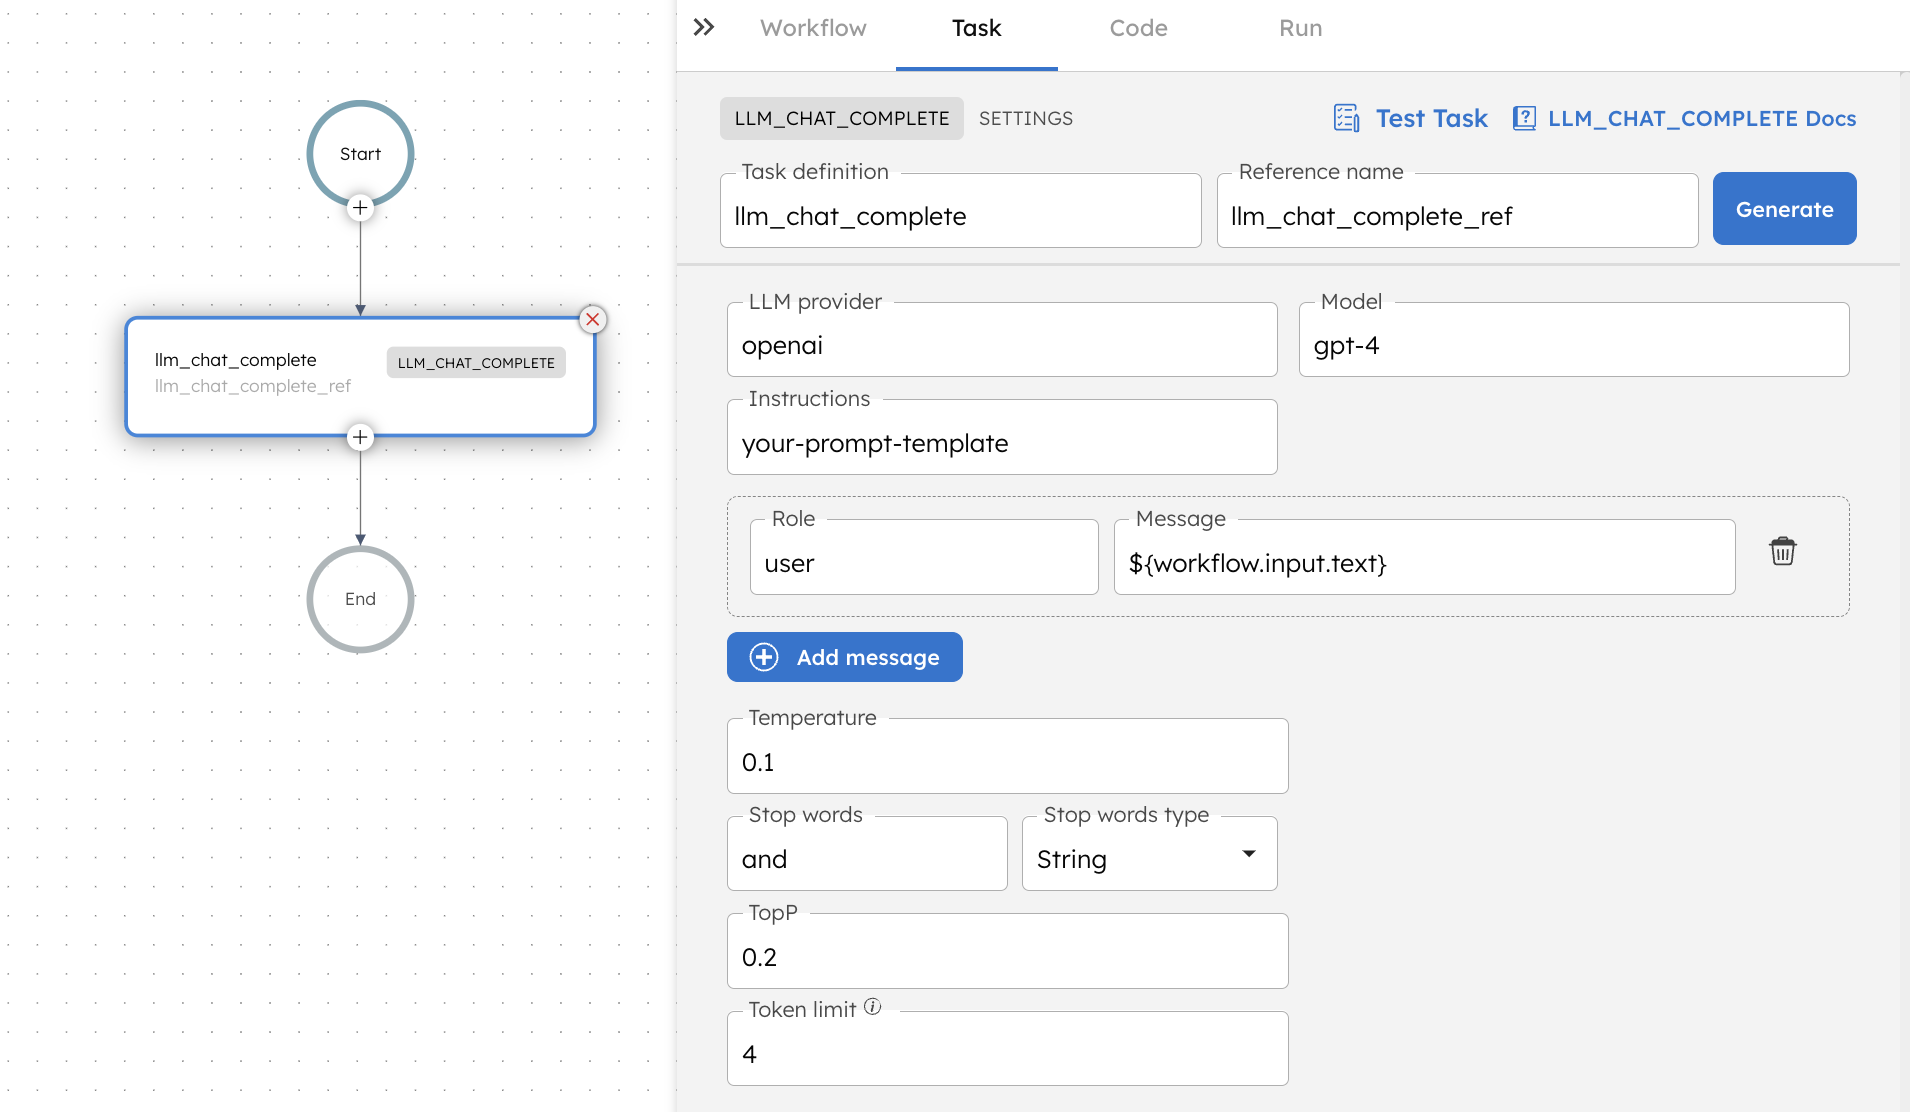
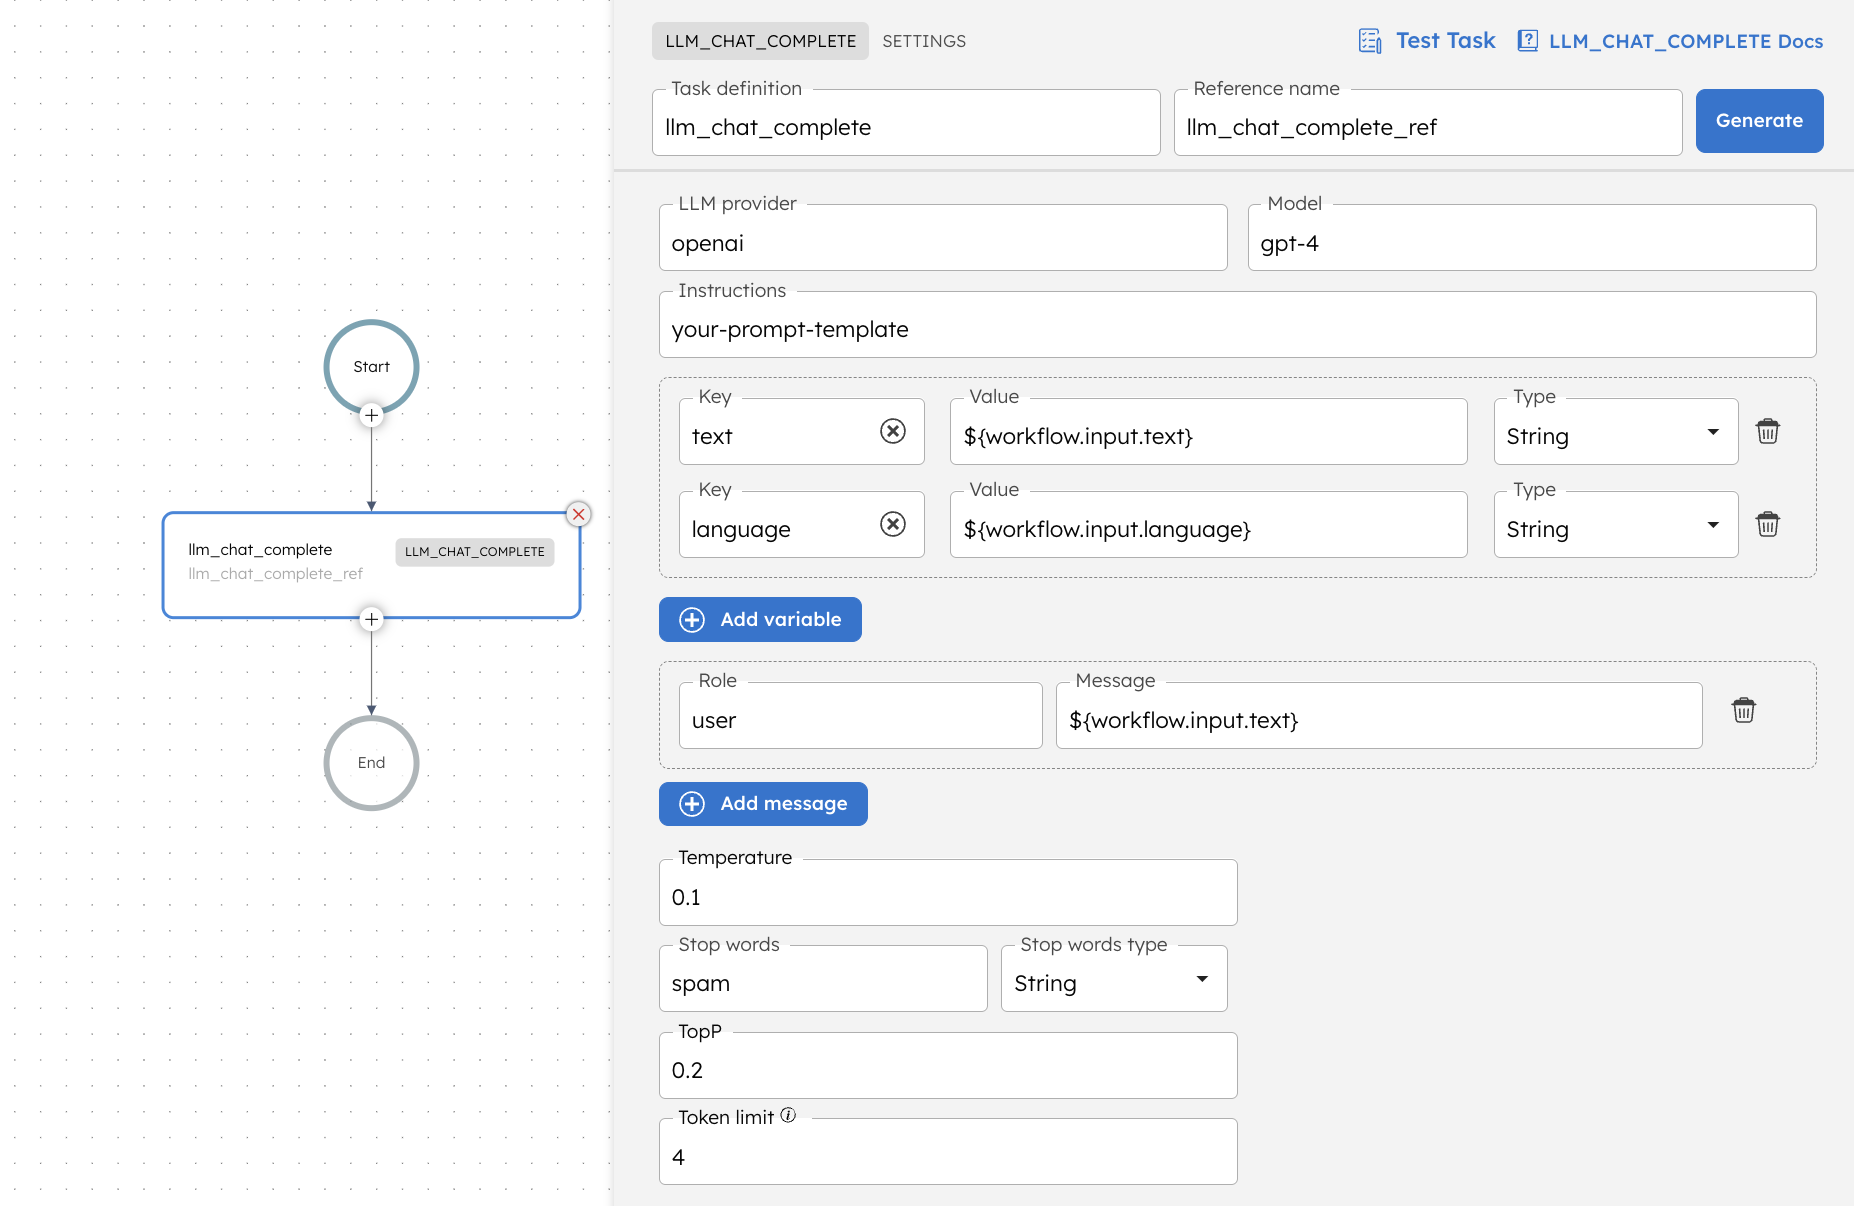
LLM Chat Complete - promptVariables

diff --git a/docs/reference-docs/ai-tasks/llm-chat-complete.md b/docs/reference-docs/ai-tasks/llm-chat-complete.md
@@ -11,7 +11,7 @@ A system task to complete the chat query. It can be used to instruct the model's
 ## Definitions
 
 ```json
-   {
+  {
      "name": "llm_chat_complete",
      "taskReferenceName": "llm_chat_complete_ref",
      "inputParameters": {
@@ -27,7 +27,11 @@ A system task to complete the chat query. It can be used to instruct the model's
        "temperature": 0.1,
        "topP": 0.2,
        "maxTokens": 4,
-       "stopWords": "and"
+       "stopWords": "spam",
+       "promptVariables": {
+         "text": "${workflow.input.text}",
+         "language": "${workflow.input.language}"
+       }
      },
      "type": "LLM_CHAT_COMPLETE"
    }
@@ -40,11 +44,13 @@ A system task to complete the chat query. It can be used to instruct the model's
 | llmProvider | Choose the required LLM provider. You can only choose providers to which you have access for at least one model from that provider.<br/><br/>**Note:**If you haven’t configured your AI / LLM provider on your Orkes console, navigate to the **Integrations** tab and configure your required provider. Refer to this doc on [how to integrate the LLM providers with Orkes console and provide access to required groups](https://orkes.io/content/category/integrations/ai-llm). | 
 | model | Choose from the available language model for the chosen LLM provider. You can only choose models for which you have access.<br/><br/>For example, If your LLM provider is Azure Open AI & you’ve configured *text-davinci-003* as the language model, you can choose it under this field. |
 | instructions | Set the ground rule/instructions for the chat so the model responds to only specific queries and will not deviate from the objective.<br/><br/>Under this field, choose the AI prompt created. You can only use the prompts for which you have access.<br/><br/>**Note:**If you haven’t created an AI prompt for your language model, refer to this documentation on [how to create AI Prompts in Orkes Conductor and provide access to required groups](https://orkes.io/content/reference-docs/ai-tasks/prompt-template). |
+| promptVariables | The instructions/prompts can include **_promptVariables_**, allowing for dynamic input. These variables support multiple data types, including string, number, boolean, null, and object/array. |
 | messages | Choose the role and messages to complete the chat query.<p align="center"><img src="/content/img/llm-chat-complete-messages.png" alt="Role and messages in LLM Chat complete task" width="50%" height="auto"></img></p><ul><li>Under ‘Role,’ choose the required role for the chat completion. It can take values such as *user*, *assistant*, *system*, or *human*.<ul><li>The roles “user” and “human” represent the user asking questions or initiating the conversation.</li><li>The roles “assistant” and “system” refer to the model responding to the user queries.</li></ul></li><li>Under “Message”, choose the corresponding input to be provided. It can also be [passed as variables](https://orkes.io/content/developer-guides/passing-inputs-to-task-in-conductor). </li></ul> | 
 | temperature | A parameter to control the randomness of the model’s output. Higher temperatures, such as 1.0, make the output more random and creative. Whereas a lower value makes the output more deterministic and focused.<br/><br/>Example: If you're using a text blurb as input and want to categorize it based on its content type, opt for a lower temperature setting. Conversely, if you're providing text inputs and intend to generate content like emails or blogs, it's advisable to use a higher temperature setting. |
-| stopWords | Provide the stop words to be omitted during the text generation process.<br/><br/>In LLM, stop words may be filtered out or given less importance during the text generation process to ensure that the generated text is coherent and contextually relevant. |
+| stopWords | Provide the stop words to be omitted during the text generation process. It can be string or object/array.<br/><br/>In LLM, stop words may be filtered out or given less importance during the text generation process to ensure that the generated text is coherent and contextually relevant. |
 | topP | Another parameter to control the randomness of the model’s output. This parameter defines a probability threshold and then chooses tokens whose cumulative probability exceeds this threshold.<br/><br/>For example: Imagine you want to complete the sentence: “She walked into the room and saw a ______.” Now, the top 4 words the LLM model would consider based on the highest probabilities would be:<ul><li>Cat - 35%</li><li>Dog - 25% </li><li>Book - 15% </li><li>Chair - 10%</li></ul>If you set the top-p parameter to 0.70, the AI will consider tokens until their cumulative probability reaches or exceeds 70%. Here's how it works:<ul><li>Adding "Cat" (35%) to the cumulative probability.</li><li>Adding "Dog" (25%) to the cumulative probability, totaling 60%.</li><li>Adding "Book" (15%) to the cumulative probability, now at 75%.</li></ul>At this point, the cumulative probability is 75%, exceeding the set top-p value of 70%. Therefore, the AI will randomly select one of the tokens from the list of "Cat," "Dog," and "Book" to complete the sentence because these tokens collectively account for approximately 75% of the likelihood. |
-| maxTokens | The maximum number of tokens to be generated by the LLM and returned as part of the result. A token should be approximately 4 characters. |
+| maxTokens<br/><br/>(Referred as **_Token limit_** in UI) | The maximum number of tokens to be generated by the LLM and returned as part of the result. A token should be approximately 4 characters. |
+| cacheConfig | Enabling this option allows saving the cache output of the task. On enabling, you can provide the following parameters:<ul><li>ttlInSecond - Provide the time to live in seconds. You can also [pass this parameter as a variable](https://orkes.io/content/developer-guides/passing-inputs-to-task-in-conductor).</li><li>key - Provide the cache key, which is a string with parameter substitution based on the task input. You can also [pass this parameter as a variable](https://orkes.io/content/developer-guides/passing-inputs-to-task-in-conductor).</li></ul> |
 | optional | Enabling this option renders the task optional. The workflow continues unaffected by the task's outcome, whether it fails or remains incomplete. | 
 
 ## Output Parameters
@@ -82,7 +88,7 @@ The task output displays the completed chat by the LLM.
  <TabItem value="JSON" label="JSON">
 
 ```json
-{
+ {
      "name": "llm_chat_complete",
      "taskReferenceName": "llm_chat_complete_ref",
      "inputParameters": {
@@ -98,7 +104,11 @@ The task output displays the completed chat by the LLM.
        "temperature": 0.1,
        "topP": 0.2,
        "maxTokens": 4,
-       "stopWords": "and"
+       "stopWords": "spam",
+       "promptVariables": {
+         "text": "${workflow.input.text}",
+         "language": "${workflow.input.language}"
+       }
      },
      "type": "LLM_CHAT_COMPLETE"
    }
